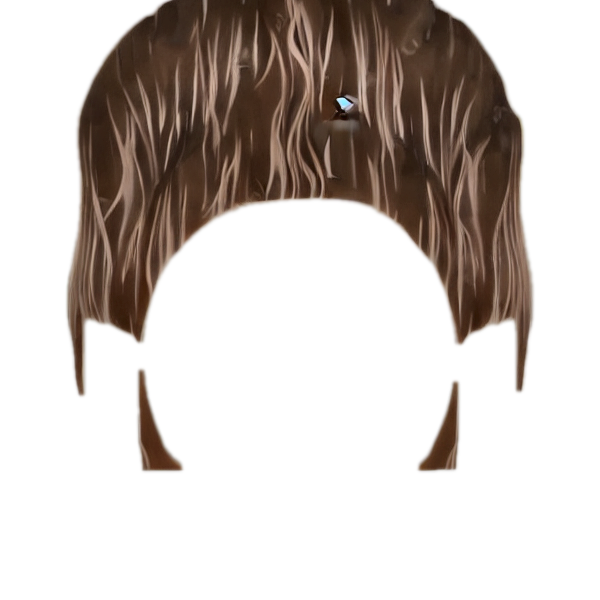
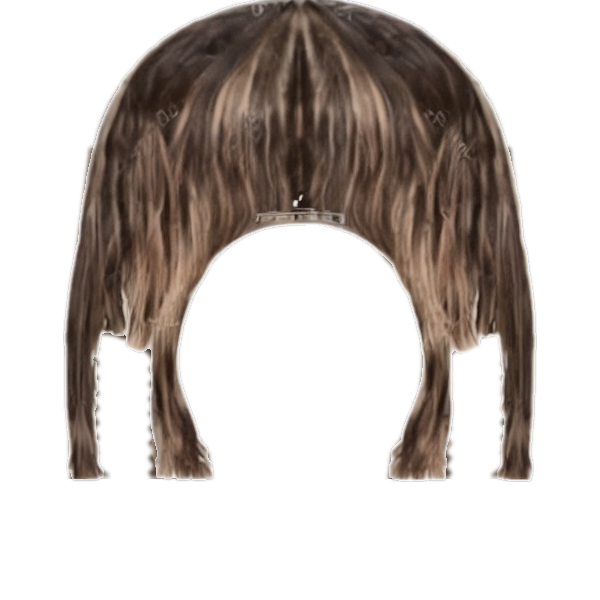
fix: tóc bám sát đầu 3D/2D, phủ trọn kiểu tóc, chụp ảnh ổn định
3D MIRROR (hết lơ lửng):
- Neo tóc theo hình hộp bao THẬT của model GLB (tính local-frame trước khi gắn
  vào group): đặt đáy bbox chạm đỉnh đầu + ăn vào da đầu 14% chiều cao mặt
  -> mọi model .glb đều ôm đầu đúng kích thước, không còn treo lơ lửng
- Debug hook window.__hanaHairDebug để kiểm chứng số liệu neo trên máy thật

2D TRY-ON (hết cảnh 'chỉ ghép nửa đầu'):
- Silhouette đầy đặn hơn: màn tóc dài tới đáy canvas, lỗ mở mặt nhỏ lại để
  màn tóc dày ôm gò má, bob/wolf mở rộng xuống cằm
- Pipeline thêm bước 'ép khung xương': trong phạm vi dáng tóc chuẩn, chỗ nào
  AI vẽ hụt thì đổ màu tóc procedural vào -> không bao giờ đứt mảnh/thiếu miếng
- Độ phủ 2.5x -> 2.9x bề ngang mặt; neo mốc tóc hơi dưới landmark trán (7%)
  để tóc ôm sát trán thay vì lơ lửng trên đầu

ỔN ĐỊNH (chụp ảnh):
- Làm mượt landmark EMA alpha 0.45 theo thời gian; reset khi mất tracking
- Chụp gương 3D dùng chính smoothed landmarks -> ảnh chụp không rung

Thư viện tóc sinh lại trọn bộ 8/8 bằng AI trên GPU (khung xương + refine),
manifest anchorY tính lại bằng thuật toán v3 (chống nhầm đỉnh vòm crown).
Test: frontend check OK, pytest ai_service 6/6, pytest hair_runtime 8/8,
kiểm chứng trực quan bằng webcam thật (2D chân dung + 3D live).

diff --git a/Code Salon AI Frontend/cv-hair-engine.js b/Code Salon AI Frontend/cv-hair-engine.js
@@ -18,6 +18,7 @@ class CVHairEngine {
         this.isLandmarkerReady = false;
         this.landmarkerInitPromise = null;
         this.lastVideoTimestamp = -1;
+        this.smoothedLandmarks = null;   // landmark làm mượt theo thời gian
 
         // 2D State
         this.userImage = null;
@@ -629,10 +630,10 @@ class CVHairEngine {
         let angle = this.transform.rotation;
 
         if (this.faceMetrics && this.faceMetrics.foreheadX) {
-            // Neo đúng điểm tóc trán (landmark 10) và phủ rộng hơn khuôn mặt ~2 lần bề ngang
+            // Neo mốc tóc trán hơi DƯỚI landmark 10 (7% chiều cao mặt) -> tóc ôm sát trán
             posX = this.faceMetrics.foreheadX + this.transform.offsetX;
-            posY = this.faceMetrics.foreheadY + this.transform.offsetY;
-            scale = (this.faceMetrics.faceWidth * 2.5 / HAIR_BOX) * this.transform.scale;
+            posY = this.faceMetrics.foreheadY + this.faceMetrics.faceHeight * 0.07 + this.transform.offsetY;
+            scale = (this.faceMetrics.faceWidth * 2.9 / HAIR_BOX) * this.transform.scale;
             angle += this.faceMetrics.angle;
         }
 
@@ -911,7 +912,9 @@ class CVHairEngine {
                     child.material = this.three.hairMaterial;
                 }
             });
+            const cachedBox = new THREE.Box3().setFromObject(cachedPivot);
             hairGroup.add(cachedPivot);
+            this.three.hairLocalBox = cachedBox;
             if (loadVersion === this.three.modelLoadVersion) hairGroup.visible = true;
             return;
         }
@@ -950,6 +953,9 @@ class CVHairEngine {
             if (!this.three.loadedModels) this.three.loadedModels = {};
             this.three.loadedModels[modelKey] = modelPivot;
 
+            // Ghi nhớ hình hộp bao trong HỆ CỤC BỘ của pivot (độc lập vị trí group
+            // lúc đang tracking) để update3DPose neo đáy tóc vào đỉnh đầu chính xác
+            this.three.hairLocalBox = new THREE.Box3().setFromObject(modelPivot);
             if (loadVersion === this.three.modelLoadVersion && this.three.current3dStyle === styleKey) {
                 while (hairGroup.children.length > 0) hairGroup.remove(hairGroup.children[0]);
                 hairGroup.add(modelPivot.clone());
@@ -988,11 +994,28 @@ class CVHairEngine {
             if (this.three.lostTrackingFrames > 35) {
                 if (this.three.hairGroup) this.three.hairGroup.visible = false;
                 if (this.three.occlusionMesh) this.three.occlusionMesh.visible = false;
+                this.smoothedLandmarks = null;   // frame sau tracking lại từ đầu cho mượt
             }
             return;
         }
 
         this.three.lostTrackingFrames = 0;
+
+        // Làm mượt landmark theo thời gian (EMA 0.45): hết rung, chụp ảnh ổn định
+        if (!Array.isArray(this.smoothedLandmarks) || this.smoothedLandmarks.length !== landmarks.length) {
+            this.smoothedLandmarks = landmarks.map(p => ({ x: p.x, y: p.y, z: p.z || 0 }));
+        } else {
+            const alpha = 0.45;
+            for (let i = 0; i < landmarks.length; i++) {
+                const s = this.smoothedLandmarks[i];
+                const t = landmarks[i];
+                if (!t) continue;
+                s.x += (t.x - s.x) * alpha;
+                s.y += (t.y - s.y) * alpha;
+                s.z += ((t.z || 0) - s.z) * alpha;
+            }
+        }
+        landmarks = this.smoothedLandmarks;
         this.landmarks = landmarks;
         this.calculateFaceMetrics(width, height);
 
@@ -1038,11 +1061,18 @@ class CVHairEngine {
         const foreheadWz = (forehead.z || 0) * -6.0;
         const chinWy = (0.5 - chin.y) * vHeight;
 
-        // Tâm tóc = điểm trán kéo lên trên bằng 55% chiều cao mặt (khớp giải phẫu đầu người)
         const faceHeightW = Math.abs(foreheadWy - chinWy);
         const posX = foreheadWx;
-        const posY = foreheadWy + faceHeightW * 0.42 + (this.three.userOffsetY || 0);
         const posZ = foreheadWz - 0.25;
+
+        // Đỉnh đầu ~28% chiều cao mặt phía trên landmark trán.
+        // Đặt ĐÁY hình hộp tóc chạm đỉnh đầu + ăn vào da đầu 6% chiều cao mặt
+        // => tóc luôn DÍNH vào đầu đúng kích thước thật của model GLB, không lơ lửng.
+        const scaleNow = Math.max(0.75, Math.min(2.2, Math.hypot(rightTemple.x - leftTemple.x, rightTemple.y - leftTemple.y) * 3.5))
+            * (this.three.userScale || 1.0);
+        const bboxBottom = this.three.hairLocalBox ? this.three.hairLocalBox.min.y * scaleNow : 0;
+        const headTopY = foreheadWy + faceHeightW * 0.28;
+        const posY = headTopY - bboxBottom + faceHeightW * 0.14 + (this.three.userOffsetY || 0);
 
         this.three.targetPos.set(posX, posY, posZ);
         this.three.hairGroup.position.lerp(this.three.targetPos, 0.62);
@@ -1068,6 +1098,23 @@ class CVHairEngine {
             * (this.three.userScale || 1.0);
         this.three.hairGroup.scale.lerp(new THREE.Vector3(scaleFactor, scaleFactor, scaleFactor), 0.4);
 
+        // Debug hook: số liệu neo tóc để kiểm chứng trên thiết bị thật
+        if (typeof window !== 'undefined') {
+            window.__hanaHairDebug = {
+                foreheadWy: +foreheadWy.toFixed(2),
+                chinWy: +chinWy.toFixed(2),
+                faceHeightW: +faceHeightW.toFixed(2),
+                scaleNow: +scaleNow.toFixed(2),
+                bboxSet: !!this.three.hairLocalBox,
+                bboxMinY: this.three.hairLocalBox ? +this.three.hairLocalBox.min.y.toFixed(2) : null,
+                boxMaxY: this.three.hairLocalBox ? +this.three.hairLocalBox.max.y.toFixed(2) : null,
+                posY: +posY.toFixed(2),
+                groupPos: +this.three.hairGroup.position.y.toFixed(2),
+                meshBottomWorld: +(posY + bboxBottom).toFixed(2),
+                children: this.three.hairGroup.children.length
+            };
+        }
+
         if (this.three.meshCtx && this.three.meshCanvas) {
             const ctx = this.three.meshCtx;
             const cWidth = this.three.meshCanvas.width;
@@ -1088,9 +1135,9 @@ class CVHairEngine {
 
         ctx.save();
         ctx.globalAlpha = this.transform.opacity;
-        ctx.translate(vW - this.faceMetrics.foreheadX, this.faceMetrics.foreheadY);
+        ctx.translate(vW - this.faceMetrics.foreheadX, this.faceMetrics.foreheadY + this.faceMetrics.faceHeight * 0.07);
         ctx.rotate((-this.faceMetrics.angle * Math.PI) / 180);
-        const scale = (this.faceMetrics.faceWidth * 2.5 / HAIR_BOX) * this.transform.scale;
+        const scale = (this.faceMetrics.faceWidth * 2.9 / HAIR_BOX) * this.transform.scale;
         ctx.scale(scale, scale);
         ctx.drawImage(this.hairImage, -HAIR_BOX / 2, -HAIR_BOX * HAIRLINE_RATIO, HAIR_BOX, HAIR_BOX);
         ctx.restore();

diff --git a/ai-runtime/hair_service.py b/ai-runtime/hair_service.py
@@ -185,6 +185,45 @@ def cutout_white_background(bgr: np.ndarray) -> np.ndarray:
     return np.dstack([bgr, alpha])
 
 
+def _render_painted_to_frame(painted: np.ndarray):
+    """Đưa ảnh tóc đã vẽ (600x600 RGBA) vào khung GEN: trả về
+    (init trắng chèn tóc, painted_frame RGBA, mask_frame) cùng phép chiếu."""
+    alpha = painted[..., 3]
+    ys, xs = np.nonzero(alpha > 40)
+    if len(xs) == 0:
+        raise ValueError('Ảnh tóc rỗng')
+    x0, x1, y0, y1 = xs.min(), xs.max() + 1, ys.min(), ys.max() + 1
+    content = painted[y0:y1, x0:x1]
+    scale = min((GEN_W - 40) / content.shape[1], (GEN_H - 60) / content.shape[0])
+    new_w, new_h = max(1, int(content.shape[1] * scale)), max(1, int(content.shape[0] * scale))
+    resized = cv2.resize(content, (new_w, new_h), interpolation=cv2.INTER_AREA)
+
+    init = np.full((GEN_H, GEN_W, 3), 255, dtype=np.uint8)
+    painted_frame = np.zeros((GEN_H, GEN_W, 4), dtype=np.uint8)
+    mask_frame = np.zeros((GEN_H, GEN_W), dtype=np.uint8)
+    px, py = (GEN_W - new_w) // 2, (GEN_H - new_h) // 2
+    region = init[py:py + new_h, px:px + new_w]
+    a = (resized[..., 3:4].astype(np.float32)) / 255.0
+    region_f = region.astype(np.float32) * (1 - a) + resized[..., :3].astype(np.float32) * a
+    init[py:py + new_h, px:px + new_w] = region_f.astype(np.uint8)
+    painted_frame[py:py + new_h, px:px + new_w] = resized
+    mask_frame[py:py + new_h, px:px + new_w] = (resized[..., 3] > 128).astype(np.uint8) * 255
+    return init, painted_frame, mask_frame
+
+
+def _fill_inside_mask(ai_rgba: np.ndarray, painted_frame: np.ndarray, mask_frame: np.ndarray) -> np.ndarray:
+    """Ép silhouette làm khung xương: trong phạm vi dáng tóc (+nới 5px), chỗ nào
+    AI vẽ hụt (alpha thấp) thì đổ màu tóc procedural vào -> KHÔNG BAO GIỜ thiếu miếng."""
+    inside = cv2.dilate(mask_frame, np.ones((11, 11), np.uint8)) > 0
+    out = ai_rgba.copy()
+    hole = inside & (out[..., 3] < 60)
+    out[hole, :3] = painted_frame[hole, :3]
+    alpha_ai = out[..., 3].astype(np.float32)
+    alpha_pp = painted_frame[..., 3].astype(np.float32)
+    out[..., 3] = np.where(inside, np.maximum(alpha_ai, alpha_pp * 0.92), alpha_ai).astype(np.uint8)
+    return out
+
+
 def _rgba_painted_to_init(rgba: np.ndarray, with_mask: bool = False):
     """Ghép ảnh tóc ĐÃ VẼ SẴN SỢI (procedural RGBA) lên nền trắng, căn giữa
     khung GEN_W x GEN_H — ảnh init giàu chi tiết cho img2img tạo tóc thật."""
@@ -241,24 +280,27 @@ def _enforce_mask(rgba: np.ndarray, mask_frame: np.ndarray, feather_px: int = 6)
 
 
 def find_hairline_ratio(rgba: np.ndarray) -> float:
-    """Dò chân tóc bằng BĂNG GIỮA 1/3 ảnh: hàng đầu tiên (từ trên xuống)
-    mà dải ngang giữa ảnh trống hơn 60% — đó là mép trên vùng mở mặt.
-    Chống nhiễu với kiểu rẽ ngôi giữa (khe hẹp ở giữa không đủ để triger)."""
+    """Dò chân tóc bằng băng giữa 1/3 ảnh: hàng đầu tiên (từ trên xuống) mà
+    băng giữa trống >60% ĐỒNG THỜI hai bên còn TƯỜNG TÓC DÀY (mỗi bên >=15%
+    bề rộng) — loại bỏ đánh lừa của đỉnh vòmCrowne (hai bên còn mỏng)."""
     alpha = rgba[..., 3]
     h, w = alpha.shape
     solid = (alpha > 60)
     c0, c1 = int(w * 0.33), int(w * 0.67)
+    side = int(w * 0.15)
 
     consecutive = 0
     for y in range(int(h * 0.15), int(h * 0.92)):
-        band = solid[y, c0:c1]
-        if band.mean() < 0.40:            # băng giữa trống > 60%
+        row = solid[y]
+        band = row[c0:c1]
+        left_wall = float(row[:c0].mean())
+        right_wall = float(row[c1:].mean())
+        if band.mean() < 0.40 and left_wall > 0.45 and right_wall > 0.45:
             consecutive += 1
-            if consecutive >= 3:          # phải trống 3 hàng liên tiếp
+            if consecutive >= 3:
                 return round((y - 2) / h, 3)
         else:
             consecutive = 0
-    # Tóc phủ kín (fringe phủ hết trán) -> neo ở 40% chiều cao
     return 0.40
 
 
@@ -315,10 +357,11 @@ def build_hair_asset_from_silhouette(desc: str, style_key: str, seed: int,
     from generate_hair_assets import build_base_silhouette, paint_hair
     mask = build_base_silhouette(style_key)
     painted = paint_hair(mask, seed % 1000)
-    init, mask_frame = _rgba_painted_to_init(painted, with_mask=True)
+    init, painted_frame, mask_frame = _render_painted_to_frame(painted)
 
     bgr = i2i_refine(init, desc, seed, strength=0.5, steps=steps)
     rgba = cutout_white_background(bgr)
+    rgba = _fill_inside_mask(rgba, painted_frame, mask_frame)
     rgba = _enforce_mask(rgba, mask_frame)
     if (rgba[..., 3] > 40).mean() < 0.06:
         raise HTTPException(status_code=502, detail="Ảnh tinh chỉnh mất vùng tóc, thử seed khác.")

diff --git a/Code Salon AI Frontend/tools/generate_hair_assets.py b/Code Salon AI Frontend/tools/generate_hair_assets.py
@@ -75,21 +75,21 @@ def build_base_silhouette(style: str) -> np.ndarray:
     """Dựng mặt nạ silhouette cơ bản của từng kiểu tóc."""
     cap = _ellipse_mask(CX, HAIRLINE - 40, 224, 190)                 # vòm đầu
     crown_top = _ellipse_mask(CX, HAIRLINE - 105, 150, 105)          # đỉnh đầu cao hơn
-    face_open = _ellipse_mask(CX, HAIRLINE + 168, 158, 170)          # vùng mặt để trống
+    face_open = _ellipse_mask(CX, HAIRLINE + 158, 132, 152)          # vùng mặt để trống (nhỏ -> màn tóc dày)
 
     if style in ('layer_nu', 'straight_silk'):
         # Tóc dài thẳng/layer: hai hồi tóc suôn xuống gần đáy ảnh
         left = _polygon_mask([
-            (CX - 216, HAIRLINE - 60), (CX - 236, HAIRLINE + 120),
-            (CX - 214, HAIRLINE + 268), (CX - 196, SIZE - 6),
-            (CX - 96, SIZE - 2), (CX - 130, HAIRLINE + 40),
-            (CX - 118, HAIRLINE - 40),
+            (CX - 226, HAIRLINE - 70), (CX - 252, HAIRLINE + 130),
+            (CX - 246, HAIRLINE + 300), (CX - 226, SIZE - 4),
+            (CX - 96, SIZE - 2), (CX - 122, HAIRLINE + 80),
+            (CX - 112, HAIRLINE - 30),
         ])
         right = _polygon_mask([
-            (CX + 216, HAIRLINE - 60), (CX + 236, HAIRLINE + 120),
-            (CX + 214, HAIRLINE + 268), (CX + 196, SIZE - 6),
-            (CX + 96, SIZE - 2), (CX + 130, HAIRLINE + 40),
-            (CX + 118, HAIRLINE - 40),
+            (CX + 226, HAIRLINE - 70), (CX + 252, HAIRLINE + 130),
+            (CX + 246, HAIRLINE + 300), (CX + 226, SIZE - 4),
+            (CX + 96, SIZE - 2), (CX + 122, HAIRLINE + 80),
+            (CX + 112, HAIRLINE - 30),
         ])
         mask = _union([cap, crown_top, left, right])
         mask = _subtract(mask, face_open)
@@ -115,30 +115,32 @@ def build_base_silhouette(style: str) -> np.ndarray:
         pts_l, pts_r = [], []
         for i in range(25):
             t = i / 24
-            y = HAIRLINE - 40 + (SIZE - 10 - (HAIRLINE - 40)) * t
-            swing = math.sin(t * math.pi * 2.4) * 22
-            pts_l.append((max(6, CX - 224 + t * 18 - swing), y))
-            pts_r.append((min(SIZE - 6, CX + 224 - t * 18 + swing), y))
-        body_l = _polygon_mask(pts_l + [(CX - 118, HAIRLINE + 40), (CX - 126, SIZE - 12)])
-        body_r = _polygon_mask(pts_r + [(CX + 118, HAIRLINE + 40), (CX + 126, SIZE - 12)])
+            y = HAIRLINE - 50 + (SIZE - 4 - (HAIRLINE - 50)) * t
+            swing = math.sin(t * math.pi * 2.4) * 24
+            pts_l.append((max(6, CX - 242 + t * 14 - swing), y))
+            pts_r.append((min(SIZE - 6, CX + 242 - t * 14 + swing), y))
+        body_l = _polygon_mask(pts_l + [(CX - 110, HAIRLINE + 60), (CX - 118, SIZE - 8)])
+        body_r = _polygon_mask(pts_r + [(CX + 110, HAIRLINE + 60), (CX + 118, SIZE - 8)])
         mask = _union([cap, crown_top, body_l, body_r])
         return _subtract(mask, face_open)
 
     if style == 'bob_nu':
         # Bob ngắn: vòm tròn ôm xuống ngang cằm, đuôi cụp nhẹ vào trong
         sides = _union([
-            _ellipse_mask(CX - 190, HAIRLINE + 40, 66, 118, 8),
-            _ellipse_mask(CX + 190, HAIRLINE + 40, 66, 118, -8),
-            _ellipse_mask(CX - 176, HAIRLINE + 128, 54, 66, 18),
-            _ellipse_mask(CX + 176, HAIRLINE + 128, 54, 66, -18),
+            _ellipse_mask(CX - 196, HAIRLINE + 40, 84, 132, 8),
+            _ellipse_mask(CX + 196, HAIRLINE + 40, 84, 132, -8),
+            _ellipse_mask(CX - 188, HAIRLINE + 150, 70, 92, 18),
+            _ellipse_mask(CX + 188, HAIRLINE + 150, 70, 92, -18),
+            _ellipse_mask(CX - 160, HAIRLINE + 216, 58, 62, 24),
+            _ellipse_mask(CX + 160, HAIRLINE + 216, 58, 62, -24),
         ])
         mask = _union([cap, crown_top, sides])
         return _subtract(mask, face_open)
 
     if style == 'wolf_cut':
         # Wolf cut: crown phồng + tầng răng cưa lởm chởm quanh vai
-        shag = _union([_ellipse_mask(CX - 150, HAIRLINE + 140, 96, 130, 12),
-                       _ellipse_mask(CX + 150, HAIRLINE + 140, 96, 130, -12)])
+        shag = _union([_ellipse_mask(CX - 162, HAIRLINE + 170, 118, 170, 12),
+                       _ellipse_mask(CX + 162, HAIRLINE + 170, 118, 170, -12)])
         mask = _union([cap, crown_top, shag])
         rng = np.random.default_rng(42)
         for _ in range(26):
